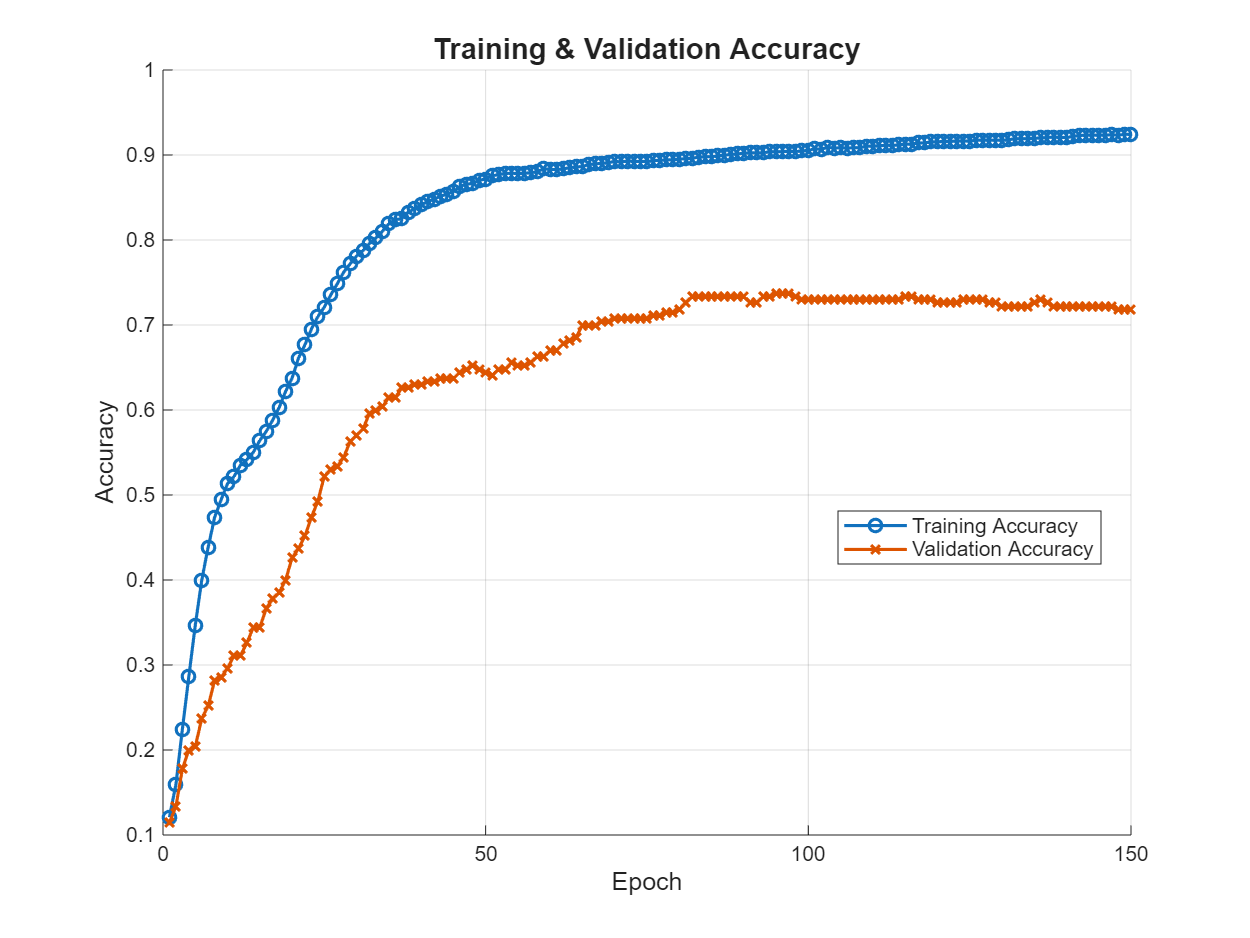
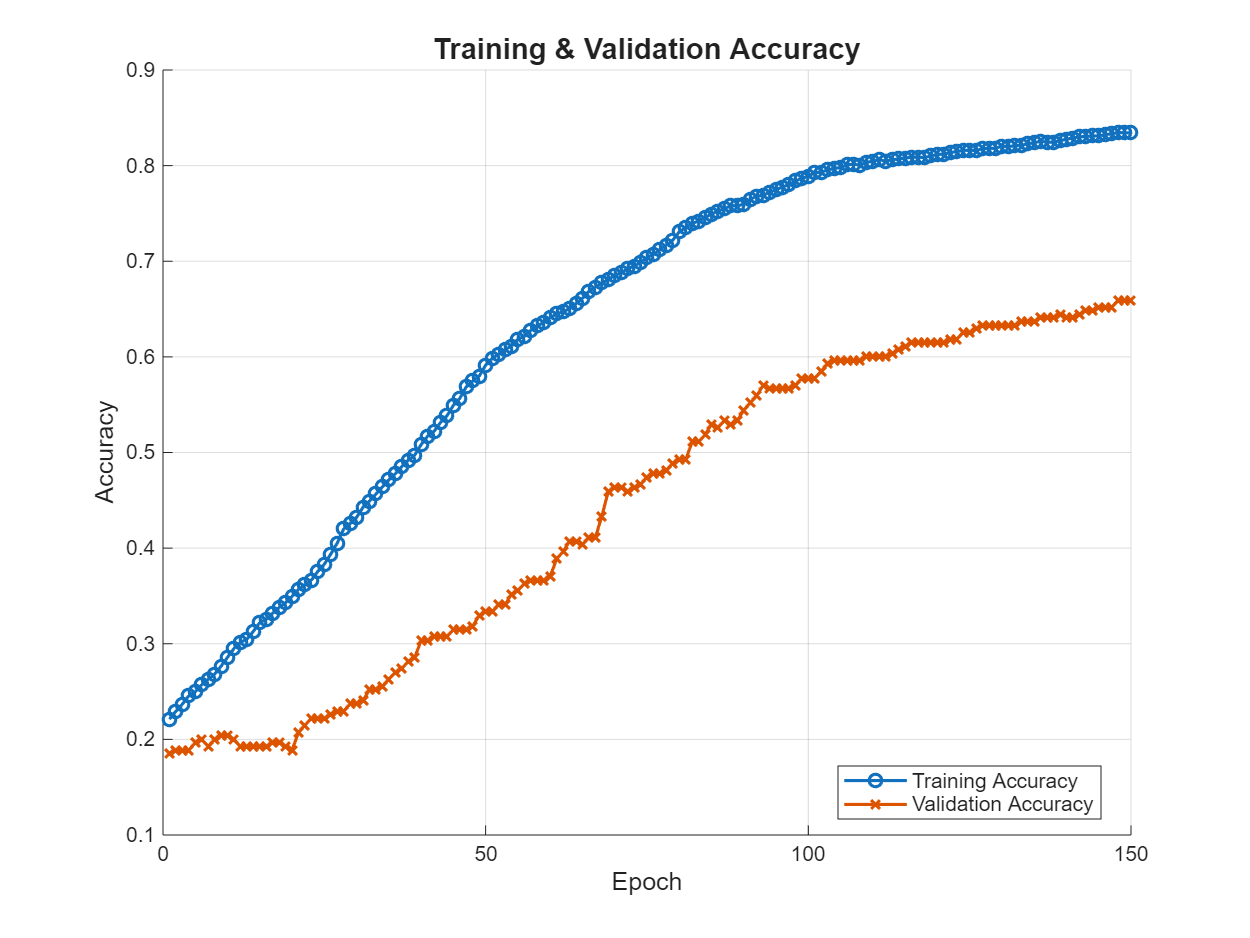
PCA

diff --git a/node_verification/CORA/train_GCN.m b/node_verification/CORA/train_GCN.m
@@ -8,6 +8,11 @@ if isempty(projectRoot)
 end
 
 data = load(fullfile(projectRoot, 'data', 'cora_node.mat'));
+
+PCA(data.edge_indices, data.features, data.labels, 16, 'reduced_dataset.mat');
+data = load('reduced_dataset.mat');
+
+
 A_full   = data.edge_indices(:,:,1);
 X_full   = data.features(:,:,1);
 y_full   = double(data.labels(:)) + 1;
@@ -16,7 +21,17 @@ y_full   = double(data.labels(:)) + 1;
 rng(2024);
 [idxTrain, idxValidation, idxTest] = trainingPartitions(numNodes, [0.8 0.1 0.1]);
 
-%% Prepare full‑batch data once
+classes       = unique(y_full);
+numClasses    = numel(classes);
+classNames    = string(1:numClasses);
+y_train_cat   = categorical(y_full(idxTrain), classes, classNames);
+y_val_cat     = categorical(y_full(idxValidation), classes, classNames);
+y_test_cat    = categorical(y_full(idxTest), classes, classNames);
+
+counts       = countcats(y_train_cat);
+classWeights = (1 ./ counts) ./ sum(1./counts) * numel(classes);
+
+% Prepare full‑batch data once
 X_train_full = dlarray(X_full(idxTrain, :));
 A_train_full = A_full(idxTrain, idxTrain);
 T_train_full = onehotencode(y_train_cat, 2, 'ClassNames', string(classes));
@@ -30,16 +45,6 @@ if canUseGPU
     A_val_full = gpuArray(A_val_full);   % only if A is small dense array, otherwise leave sparse
     T_val_full = gpuArray(T_val_full);
 end
-
-classes       = unique(y_full);
-numClasses    = numel(classes);
-classNames    = string(1:numClasses);
-y_train_cat   = categorical(y_full(idxTrain), classes, classNames);
-y_val_cat     = categorical(y_full(idxValidation), classes, classNames);
-y_test_cat    = categorical(y_full(idxTest), classes, classNames);
-
-counts       = countcats(y_train_cat);
-classWeights = (1 ./ counts) ./ sum(1./counts) * numel(classes);
 
 %% Network Initialization
 seeds = [1];
@@ -161,14 +166,14 @@ for i = 1:numel(seeds)
     % Scalar test‐set loss
     test_loss = double(crossentropy(Y_test, T_test_full, DataFormat="BC"));
 
-    plotTrainingMetrics( ...
-    train_losses, val_losses, ...
-    train_accs,   val_accs, ...
-    train_prec, train_rec, train_f1, ...
-    val_prec,   val_rec,   val_f1, ...
-    validationFrequency, seed, ...
-    y_test_cat(:),    Y_test_cls(:), ...
-    testAcc, testPrec, testRec, testF1 );
+    % plotTrainingMetrics( ...
+    % train_losses, val_losses, ...
+    % train_accs,   val_accs, ...
+    % train_prec, train_rec, train_f1, ...
+    % val_prec,   val_rec,   val_f1, ...
+    % validationFrequency, seed, ...
+    % y_test_cat(:),    Y_test_cls(:), ...
+    % testAcc, testPrec, testRec, testF1 );
     
    % Save the model and training logs
     save("models/cora_node_gcn_" + string(seed) + ".mat", ...

diff --git a/node_verification/CORA/reach_model_Linf.m b/node_verification/CORA/reach_model_Linf.m
@@ -34,7 +34,11 @@ function reach_model_Linf(modelPath, epsilon, adjacencyDataTest, featureDataTest
             lb = extractdata(XTest-epsilon(k));
             ub = extractdata(XTest+epsilon(k));
 
+
             Xverify = ImageStar(lb,ub);
+            % fprintf('Xverify size: %d x %d x %d x %d\n', size(Xverify.V,1), size(Xverify.V,2), size(Xverify.V,3), size(Xverify.V,4));
+            x = Xverify.V;
+            whos x;
 
             t = tic;
 
@@ -134,32 +138,34 @@ function Y = computeReachability(weights, L, reachMethod, input, adjMat)
     newV = tensorprod(Averify_full, newV, 2, 1); % 18 x 16 x 289
     w = extractdata(weights{1}); % 16x32
     newV = tensorprod(newV, extractdata(weights{1}), 2, 1); %18 x 289 x 32
-    fprintf('newV size: %d x %d x %d\n', size(newV,1), size(newV,2), size(newV,3));
+    % fprintf('newV size: %d x %d x %d\n', size(newV,1), size(newV,2), size(newV,3));
     newV = reshape(newV, [size(newV,1), size(newV,2), 1, size(newV,3)]); % 18 x 289 x 1 x 32
     newV = permute(newV, [1 4 3 2]); % 18 x 32 x 1 x 289
     X2 = ImageStar(newV, Xverify.C, Xverify.d, Xverify.pred_lb, Xverify.pred_ub); % 18 x 32 x 1 x 289
+
     % part 2 %
     X2b = L.reach(X2, reachMethod); % 18 x 32 x 1 x 289
     repV = repmat(Xverify.V,[1,2,1,1]); %18 x 32 x 1 x 289
     Xrep = ImageStar(repV, Xverify.C, Xverify.d, Xverify.pred_lb, Xverify.pred_ub);
-    % X2b_ = X2b.MinkowskiSum(Xrep);
+    % fprintf('Xrep size: %d x %d x %d x %d\n', size(Xrep.V,1), size(Xrep.V,2), size(Xrep.V,3), size(Xrep.V,4));
+    X2b_ = X2b.MinkowskiSum(Xrep);
     % size(X2b_.V)
 
     %%%%%%%%  LAYER 2  %%%%%%%%
 
     % part 1
-    newV = X2b.V;
+    newV = X2b_.V;
     newV = tensorprod(full(Averify), newV, 2, 1);
     newV = tensorprod(newV, extractdata(weights{2}),2,1);
     newV = permute(newV, [1 4 2 3]);
     X3 = ImageStar(newV, X2b.C, X2b.d, X2b.pred_lb, X2b.pred_ub);
     % part 2
     X3b = L.reach(X3, reachMethod);
-    % X3b_ = X3b.MinkowskiSum(X2b_);
+    X3b_ = X3b.MinkowskiSum(X2b_);
 
     %%%%%%%%  LAYER 3  %%%%%%%%
 
-    newV = X3b.V;
+    newV = X3b_.V;
     newV = tensorprod(full(Averify), newV, 2, 1);
     newV = tensorprod(newV, extractdata(weights{3}), 2, 1);
     newV = permute(newV, [1 4 2 3]);

diff --git a/node_verification/CORA/process_results.m b/node_verification/CORA/process_results.m
@@ -8,7 +8,7 @@
 
 % seeds = [0,1,2,3,4]; % models
 seeds = [1]; % models
-epsilon = [0.000005] %; 0.01; 0.02; 0.05];
+epsilon = [0.005] %; 0.01; 0.02; 0.05];
 eN = length(epsilon);
 
 % Verify one model at a time
@@ -50,7 +50,7 @@ for m=1:length(seeds)
     fprintf(fileID, 'Summary of robustness results of CORA gnn model with accuracy = %.4f \n\n', model.testAcc);
     fprintf(fileID,'                 Compromised \n');
     fprintf(fileID, 'Epsilon | Robust  Unknown  Not Rob.  N \n');
-    fprintf(fileID, '  0.000005 | %.3f    %.3f   %.3f   %d \n', samples(1,1)/samples(1,4), samples(1,2)/samples(1,4), samples(1,3)/samples(1,4), samples(1,4));
+    fprintf(fileID, '  0.005 | %.3f    %.3f   %.3f   %d \n', samples(1,1)/samples(1,4), samples(1,2)/samples(1,4), samples(1,3)/samples(1,4), samples(1,4));
     % fprintf(fileID, '   0.01 | %.3f    %.3f   %.3f   %d \n', samples(2,1)/samples(2,4), samples(2,2)/samples(2,4), samples(2,3)/samples(2,4), samples(2,4));
     % fprintf(fileID, '   0.02 | %.3f    %.3f   %.3f   %d \n', samples(3,1)/samples(3,4), samples(3,2)/samples(3,4), samples(3,3)/samples(3,4), samples(3,4));
     % fprintf(fileID, '   0.05 | %.3f    %.3f   %.3f   %d \n', samples(4,1)/samples(4,4), samples(4,2)/samples(4,4), samples(4,3)/samples(4,4), samples(4,4));

diff --git a/node_verification/CORA/PCA.m b/node_verification/CORA/PCA.m
@@ -1,0 +1,41 @@
+function PCA(adjacency, features, labels, numComponents, outFile)
+% Reduces features using PCA and saves new dataset (adjacency, reduced features, labels) to a .mat file.
+%   PCA_reduce_and_save(adjacency, features, labels, numComponents, outFile)
+%   adjacency: (N x N x 1) matrix
+%   features: (N x D x 1) or (N x D) matrix
+%   labels: (N x 1) or (N x 1 x 1) vector
+%   numComponents: number of principal components (default: 16)
+%   outFile: output .mat file name (string)
+
+if nargin < 4
+    numComponents = 16;
+end
+
+if nargin < 5
+    outFile = 'reduced_dataset.mat';
+end
+
+% Reshape features if needed
+if ndims(features) == 3
+    X = reshape(features, size(features,1), size(features,2));
+else
+    X = features;
+end
+
+% Center the data
+X_mean = mean(X, 1);
+X_centered = X - X_mean;
+
+% PCA
+[~, score, ~, ~, explained] = pca(X_centered);
+features = score(:, 1:numComponents);
+
+disp(['Explained variance by first ', num2str(numComponents), ' components:']);
+disp(sum(explained(1:numComponents)));
+
+edge_indices = adjacency; % Keep the original adjacency matrix
+% Save new dataset
+save(outFile, 'edge_indices', 'features', 'labels');
+disp(['Saved reduced dataset to ', outFile]);
+
+end

diff --git a/node_verification/CORA/reach_all_models_Linf.m b/node_verification/CORA/reach_all_models_Linf.m
@@ -4,7 +4,9 @@ addpath(genpath(fullfile(projectRoot, '/node_verification/functions/')));
 addpath(genpath(fullfile(projectRoot, '/node_verification/models/')));
 
 
-data = load(fullfile(projectRoot, 'data', 'cora_node.mat'));
+
+% data = load(fullfile(projectRoot, 'data', 'cora_node.mat'));
+data = load(fullfile(projectRoot, 'node_verification', 'CORA', 'reduced_dataset.mat'));
 A_full     = data.edge_indices(:,:,1);    
 X_full     = data.features(:,:,1);        
 y_full     = double(data.labels(:)) + 1;  
